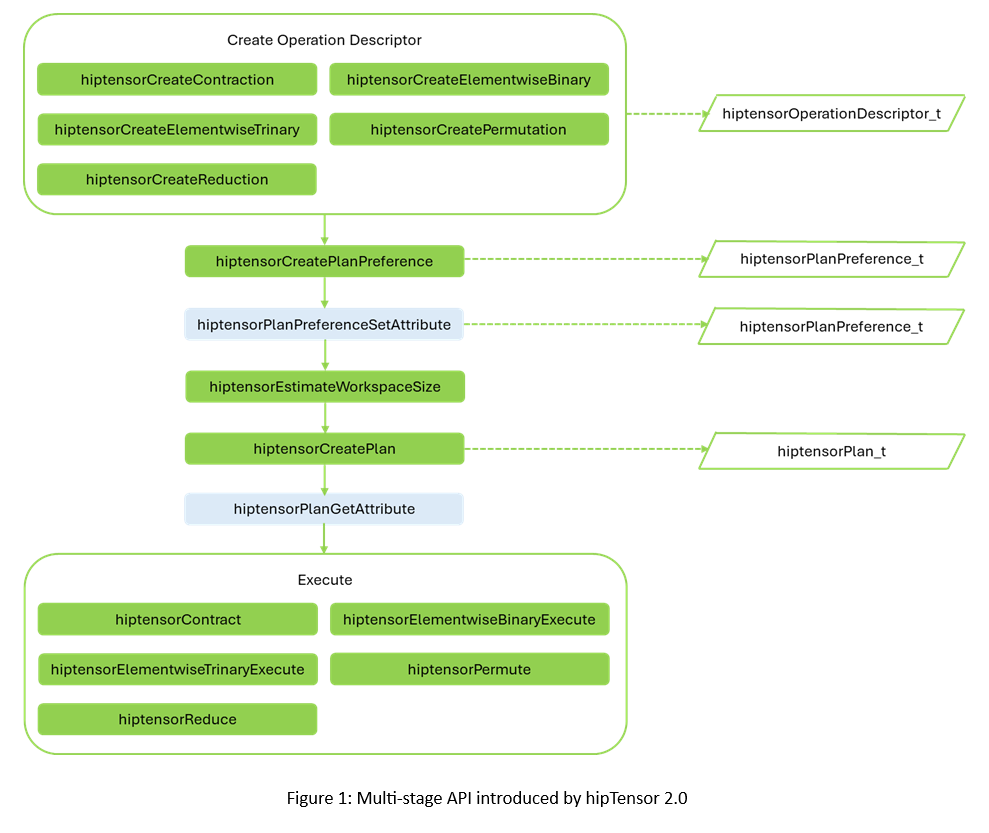
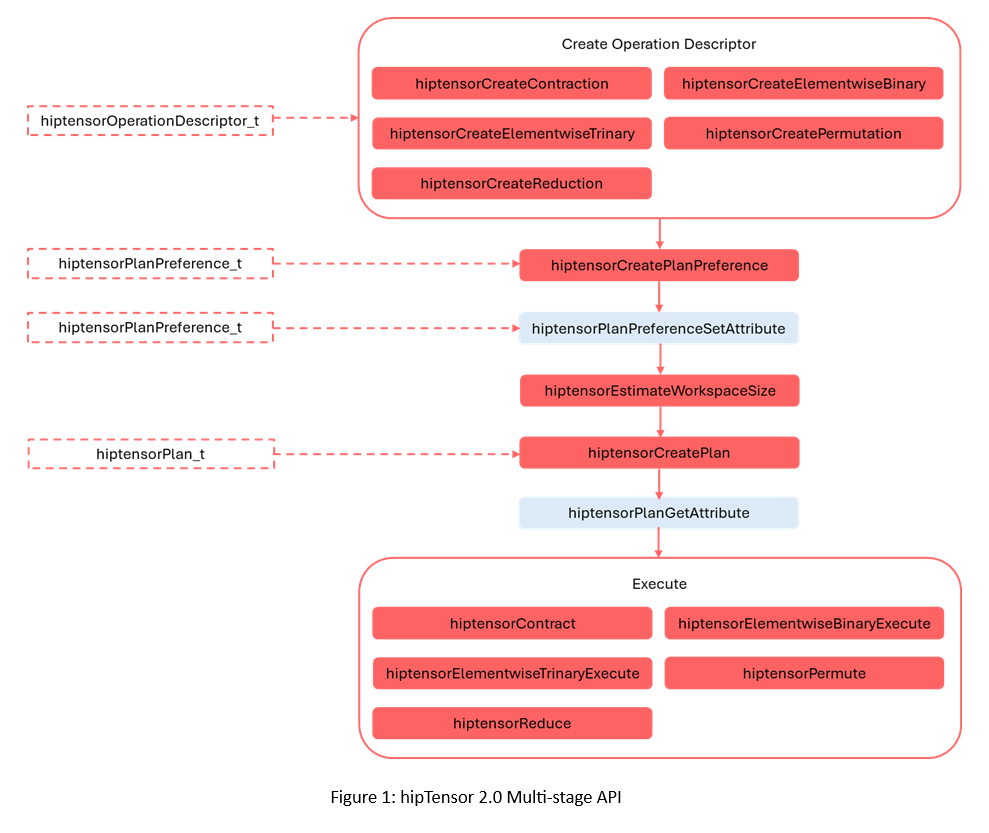
modify flow chart etc.

diff --git a/docs/what-is-hiptensor.rst b/docs/what-is-hiptensor.rst
@@ -13,7 +13,8 @@ library for tensor primitives. It's the AMD C++ library for accelerating tensor 
 leveraging specialized GPU matrix cores on the latest AMD discrete GPUs.
 hipTensor is powered by the composable kernel (CK) library backend.
 
-The hipTensor offers functionality for defining tensor data objects and supports
+The hipTensor API is designed to be portable with other similar libraries, letting other library users easily migrate to the AMD platform.
+It offers functionality for defining tensor data objects and supports
 contraction, permutation, and reduction operations.
 Users can also select from several available logging options.
 The hipTensor library is bundled with GPU kernel instances, which are automatically selected

diff --git a/docs/index.rst b/docs/index.rst
@@ -10,6 +10,8 @@ hipTensor documentation
 
 hipTensor is a high-performance HIP C++ library for accelerating tensor primitives.
 It leverages specialized GPU matrix cores on the latest AMD discrete GPUs.
+The hipTensor API is designed to be portable with other similar libraries, 
+letting other library users easily migrate to the AMD platform.
 The hipTensor library is a work in progress (WIP).
 For more information, see :doc:`What is hipTensor? <./what-is-hiptensor>`
 